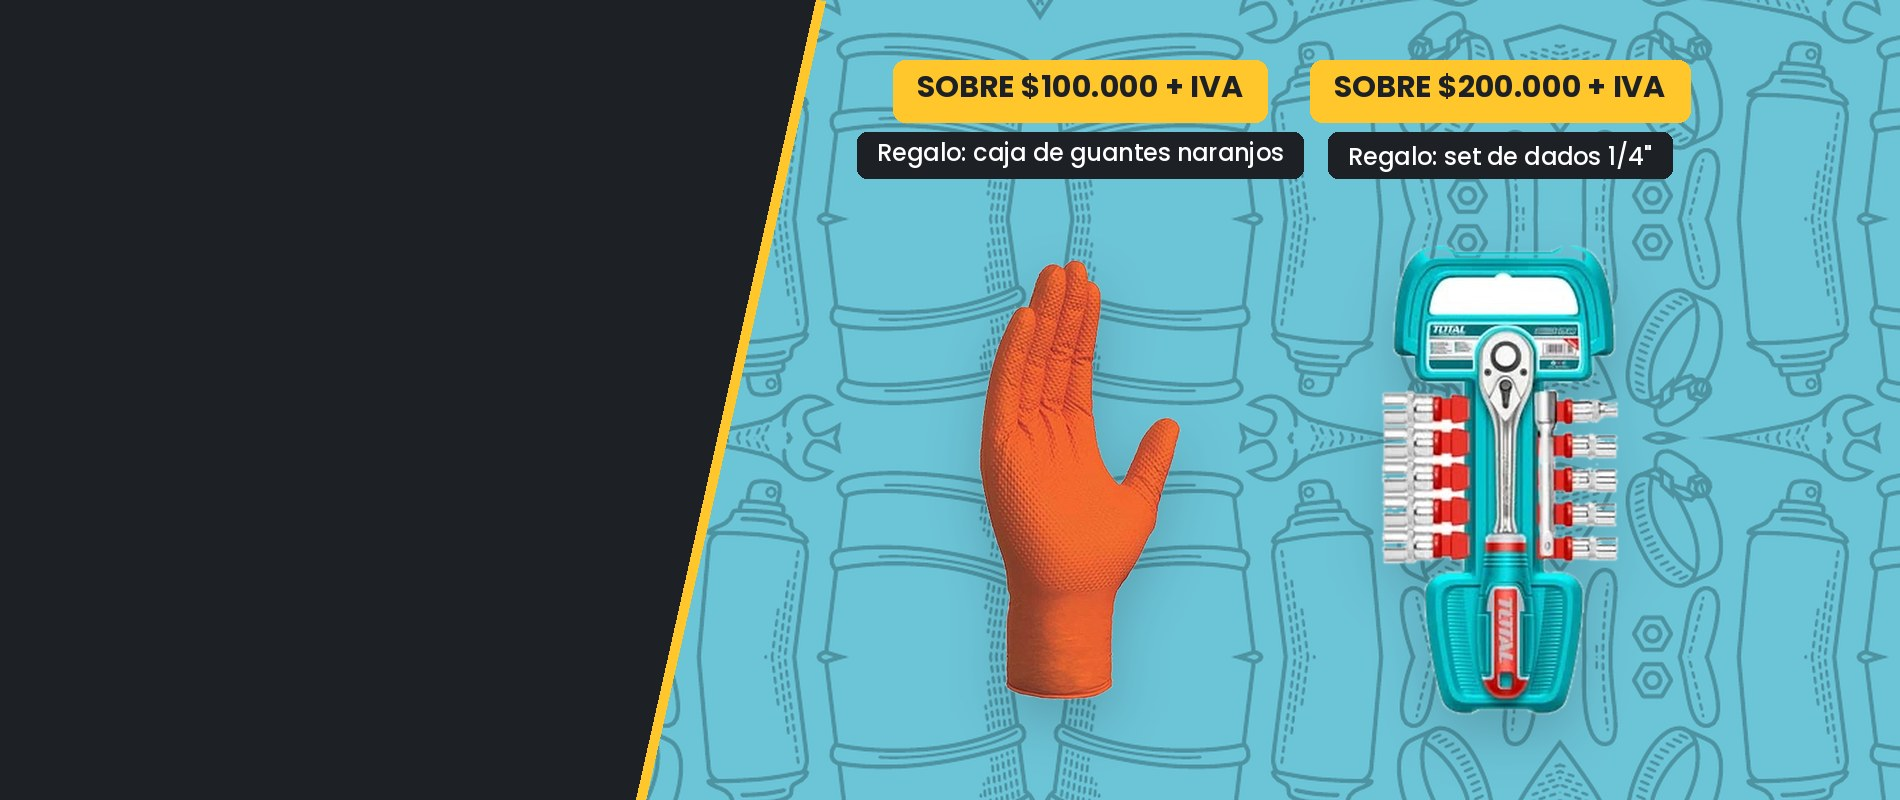
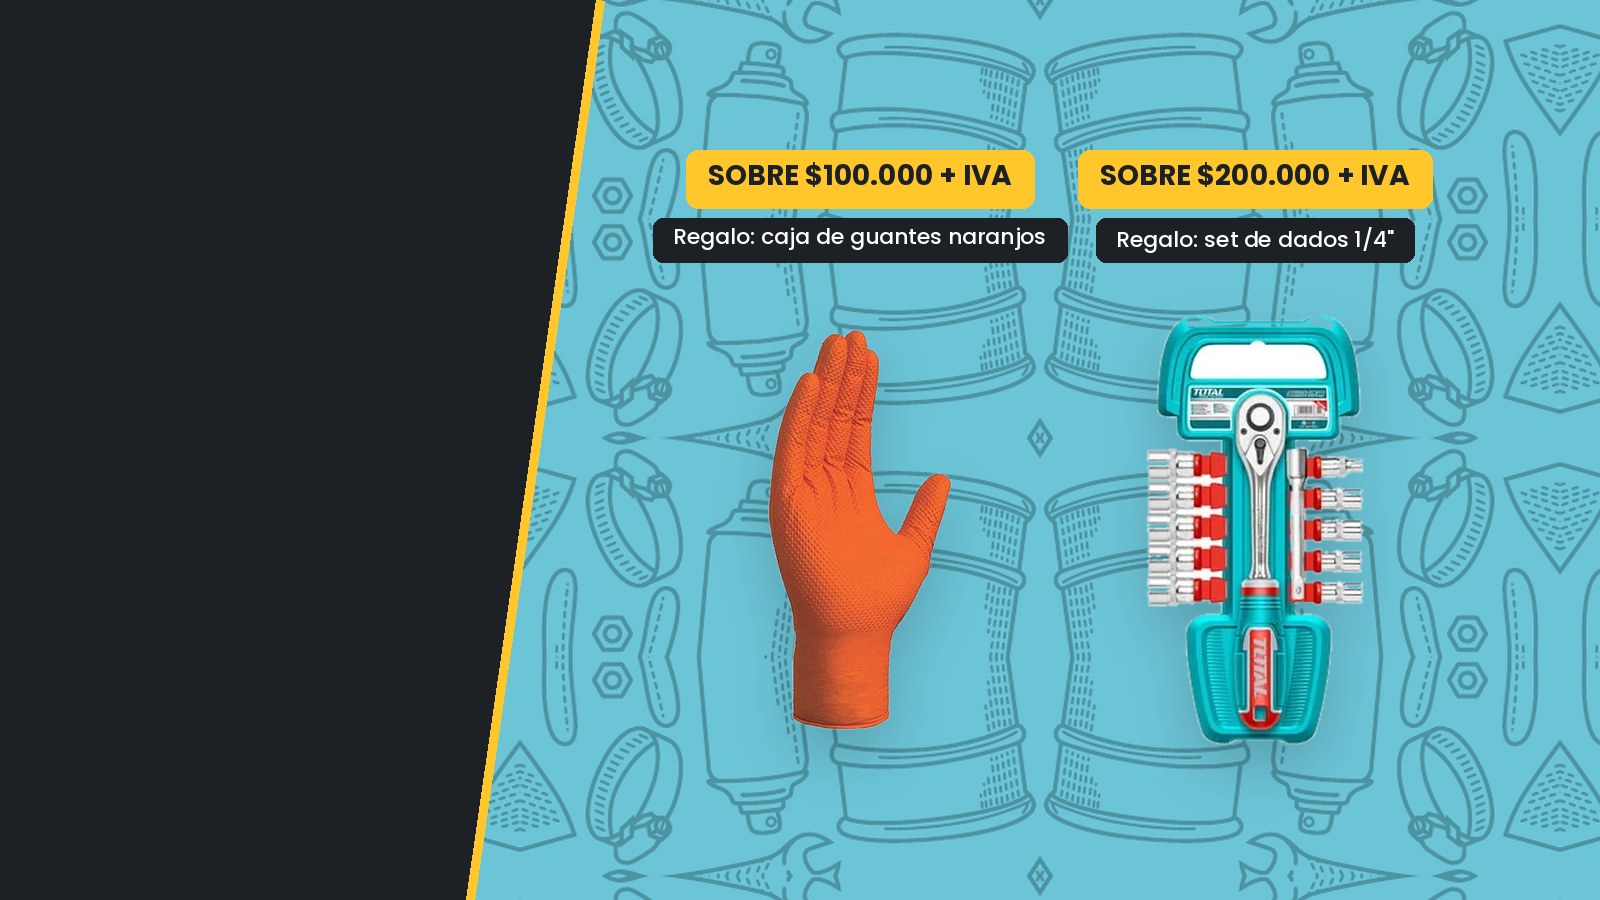
Promo octubre escritorio: formato 16:9 con zona segura para pantallas angostas
Claude-Session: https://claude.ai/code/session_01Rf7ZPyiRaM91jMSKBPMDMa

diff --git a/trabajo/scripts/promo_octubre.py b/trabajo/scripts/promo_octubre.py
@@ -25,16 +25,16 @@ def badge(dr,cx,y,monto,regalo,fs1,fs2):
     dr.rounded_rectangle((cx-w2/2-20,y2,cx+w2/2+20,y2+fs2+22),radius=10,fill=CARBON)
     dr.text((cx,y2+9),t2,font=F2,fill=BLANCO,anchor="mt")
 
-# Escritorio 1900x800
-W,H=1900,800
+# Escritorio 1600x900 (zona segura al centro para cualquier ancho de pantalla)
+W,H=1600,900
 c=Image.new("RGBA",(W,H),CARBON+(255,))
 pt=patron((W,H)).convert("RGBA")
-m=Image.new("L",(W,H),0); ImageDraw.Draw(m).polygon([(820,0),(W,0),(W,H),(640,H)],fill=255)
+m=Image.new("L",(W,H),0); ImageDraw.Draw(m).polygon([(600,0),(W,0),(W,H),(470,H)],fill=255)
 c.paste(pt,(0,0),m)
-dr=ImageDraw.Draw(c); dr.line([(820,0),(640,H)],fill=AMAR,width=10)
-pegar(c,fit(g,440),1080,260); pegar(c,fit(d,470),1500,245)
-badge(dr,1080,60,"$100.000","caja de guantes naranjos",30,24)
-badge(dr,1500,60,"$200.000","set de dados 1/4\"",30,24)
+dr=ImageDraw.Draw(c); dr.line([(600,0),(470,H)],fill=AMAR,width=9)
+pegar(c,fit(g,400),860,330); pegar(c,fit(d,430),1255,315)
+badge(dr,860,150,"$100.000","caja de guantes naranjos",28,22)
+badge(dr,1255,150,"$200.000","set de dados 1/4\"",28,22)
 c.convert("RGB").save('/home/claude/fotos/promo-octubre-escritorio.jpg',quality=88)
 
 # Celular 900x820
